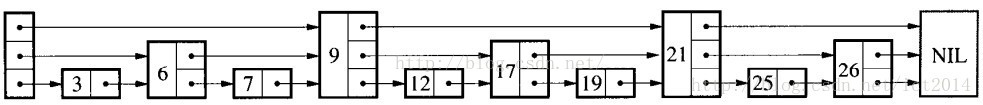
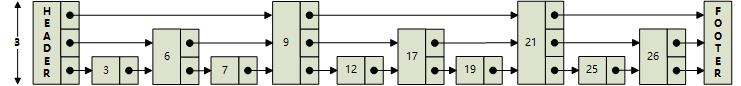
跳跃表说明文件更新

diff --git a/README.md b/README.md
@@ -1,38 +1,42 @@
 ## 简介
 
-SkipList(跳表)这种数据结构是由William Pugh于1990年在在 Communications of the ACM June 1990, 33(6) 668-676 发表了Skip lists: a probabilistic alternative to balanced trees，在其中详细描述了他的工作。由论文标题可知，SkipList的设计初衷是作为替换平衡树的一种选择。
+SkipList(跳跃表)这种数据结构是由William Pugh于1990年在 Communications of the ACM June 1990, 33(6) 668-676 发表的，“Skip lists: a probabilistic alternative to balanced trees”，在其中详细描述了他的工作。由论文标题可知，SkipList的设计初衷是作为替换平衡树的一种选择。
 
 我们都知道，AVL树有着严格的O(logN)的查询效率，但是由于插入过程中可能需要多次旋转，导致插入效率较低，因而才有了在工程界更加实用的红黑树。
 
-但是红黑树有一个问题就是在并发环境下使用不方便，比如需要更新数据时，Skip需要更新的部分比较少，锁的东西也更少，而红黑树有个平衡的过程，在这个过程中会涉及到较多的节点，需要锁住更多的节点，从而降低了并发性能。
+但是红黑树有一个问题就是在并发环境下使用不方便，比如需要更新数据时，SkipList需要更新的部分比较少，锁的东西也更少，而红黑树有个平衡的过程，在这个过程中会涉及到较多的节点，需要锁住更多的节点，从而降低了并发性能。
 
-SkipList还有一个优势就是实现简单，SkipList的实现只花了2个小时，而红黑树，我可能得2天。
+SkipList还有一个优势就是实现简单。
 
 时隔将近三十多年，SkipList这种数据结构仍在许多途径有用武之地，比如Redis, 还有Google的著名项目Bigtable.
 
 ## 原理及实现
 
-其实跳表就是在普通单向链表的基础上增加了一些索引，而且这些索引是分层的，从而可以快速地查的到数据。如下是一个典型的跳表:
+其实跳跃表就是在普通单向链表的基础上增加了一些索引，而且这些索引是分层的，从而可以快速地查的到数据。如下是一个典型的跳表:
 
-<img src="res/skiplist.jpeg" width="1000" height="170"/>
+<img src="res/skiplist.jpeg" width="741" height="86"/>
 
 ### 查找
 
 查找示意图如下:
 
-<img src="res/skiplist_search.jpeg" width="1000" height="170"/>
+<img src="res/skiplist_search.jpeg" width="741" height="135"/>
+
+整个查找逻辑是**从头节点的最高level开始，判断右边的节点，如果大了就往下，如果小了就往右，只到相等为止**。当然还是要加上尾结点的判断，如果到了尾结点，则表示未找到。
 
 比如我们要查找key为19的结点，那么我们不需要逐个遍历，而是按照如下步骤:
 
-- 从header出发，从高到低的level进行查找，先索引到9这个结点，发现9 < 19,继续查找(然后在level==2这层)，查找到21这个节点，由于21 > 19, 所以结点不往前走，而是level由2降低到1
-- 然后索引到17这个节点，由于17 < 19, 所以继续往后，索引到21这个结点，发现21>19, 所以level由1降低到0
-- 在结点17上，level==0索引到19,查找完毕。
-- 如果在level==0这层没有查找到，那么说明不存在key为19的节点，查找失败
+- 从header节点出发，从最高层（第3层）开始，判断右边的节点，发现9 < 19，就往右，到了9这个节点。
+- 判断当前节点（9）当前level（3）右边的节点，由于21 > 19, 所以不再往右，而是往下，level由3降低到2。
+- 判断当前节点（9）当前level（2）右边的节点，由于17 < 19, 所以继续往右，到了17这个节点。
+- 判断当前节点（17）当前level（2）右边的节点，发现21>19, 所以level由2降低到1。
+- 判断当前节点（17）当前level（1）右边的节点，发现19==19，查找完毕。
+- 如果在level==1这层没有查找到（到了尾结点），那么说明不存在key为19的节点，查找失败。
 
 
 既然算法都有了，实现也不在话下，如下是C++实现:
 ```
-	template<typename SortField, typename Value>
+template<typename SortField, typename Value>
 	const Node<SortField, Value>* SkipList<SortField, Value>::find(const SortField& sort_field, int* rank) const {
 		if (rank != nullptr) {
 			*rank = 1;
@@ -66,17 +70,32 @@ SkipList还有一个优势就是实现简单，SkipList的实现只花了2个小
 
 如下是插入结点示意图:
 
-<img src="res/skiplist_insert.png" width="1000" height="280"/>
+<img src="res/skiplist_insert.jpg" width="742" height="265"/>
 
-其实插入节点的关键就是找到合适的插入位置，即从所有小于待插入节点key值的节点中，找出最大的那个，所以插入节点的过程如下:
+插入节点首先要找到插入位置，还是按照查找的逻辑，从头节点最高层开始，看右边如果小了就往右，如果大了就往下，一直到第1层走不动了或者碰到尾结点为止。
+
+插入节点的过程如下:
 
 - 查找合适的插入位置，比如上图中要插入key为17的结点，就需要一路查找到12,由于12 < 17,而12的下一个结点19 > 17,因而满足条件
 - 创建新结点，并且产生一个在1~MAX_LEVEL之间的随机level值作为该结点的level
 - 调整指针指向
 
+
+
+新节点的高度基于这样一种算法：
+
+- 1/2的概率只有1层
+- 1/4的概率有2层
+- 1/8的概率有3层
+- 1/16的概率有4层
+- 以此类推，直到达到最高层数（在本组件中为24层）或者当前跳跃表最高层数+1为止。
+
+
+
 插入的代码如下:
+
 ```cpp
-	template<typename SortField, typename Value>
+template<typename SortField, typename Value>
 	bool SkipList<SortField, Value>::insert(const SortField& sort_field, const Value& value) {
 		Node<SortField, Value>* update[MAX_LEVEL];
 		int rank[MAX_LEVEL];
